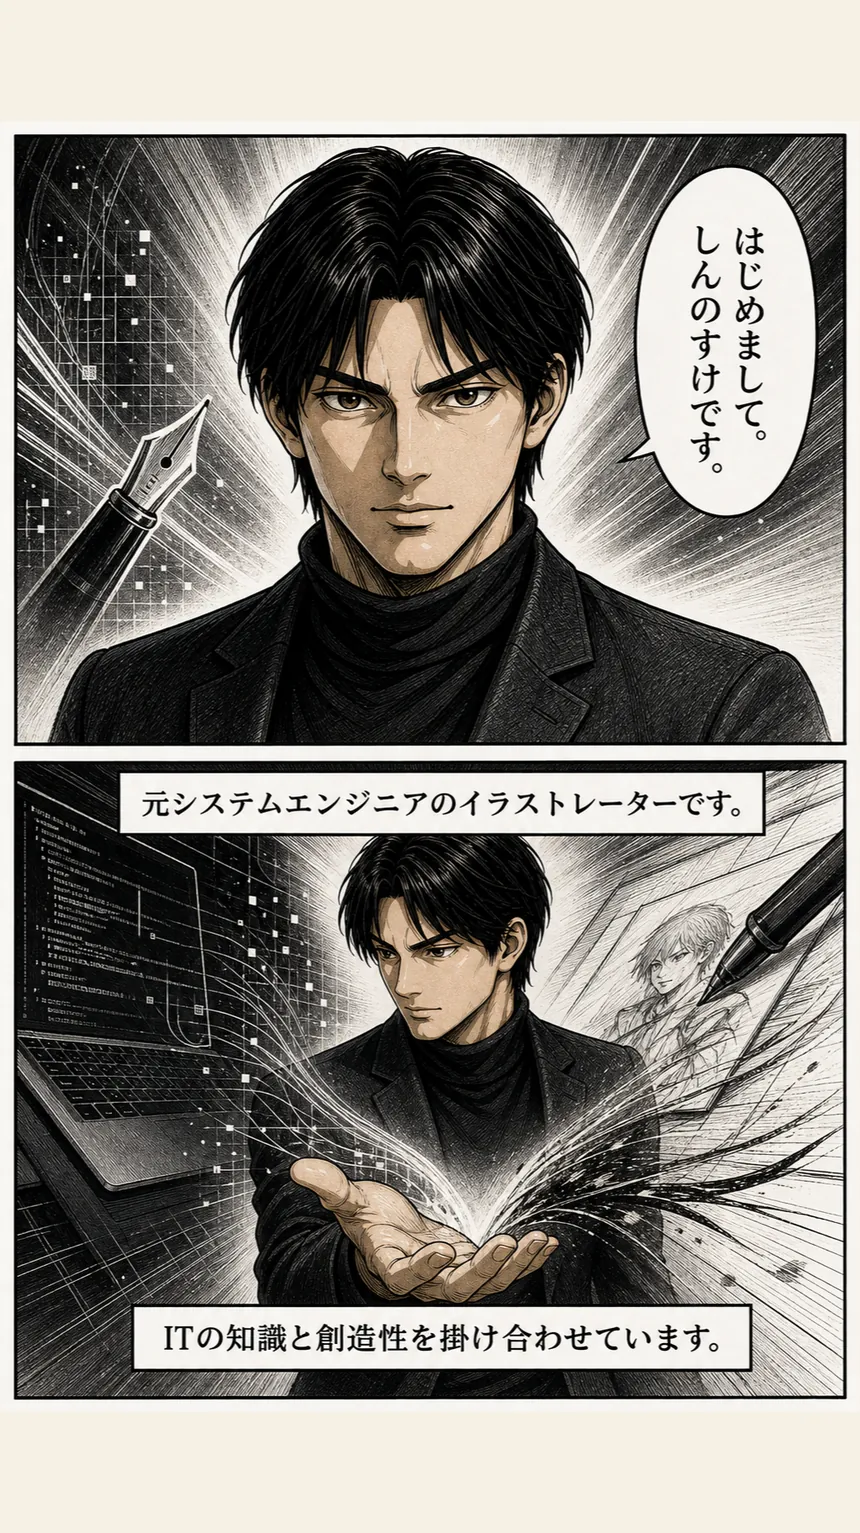
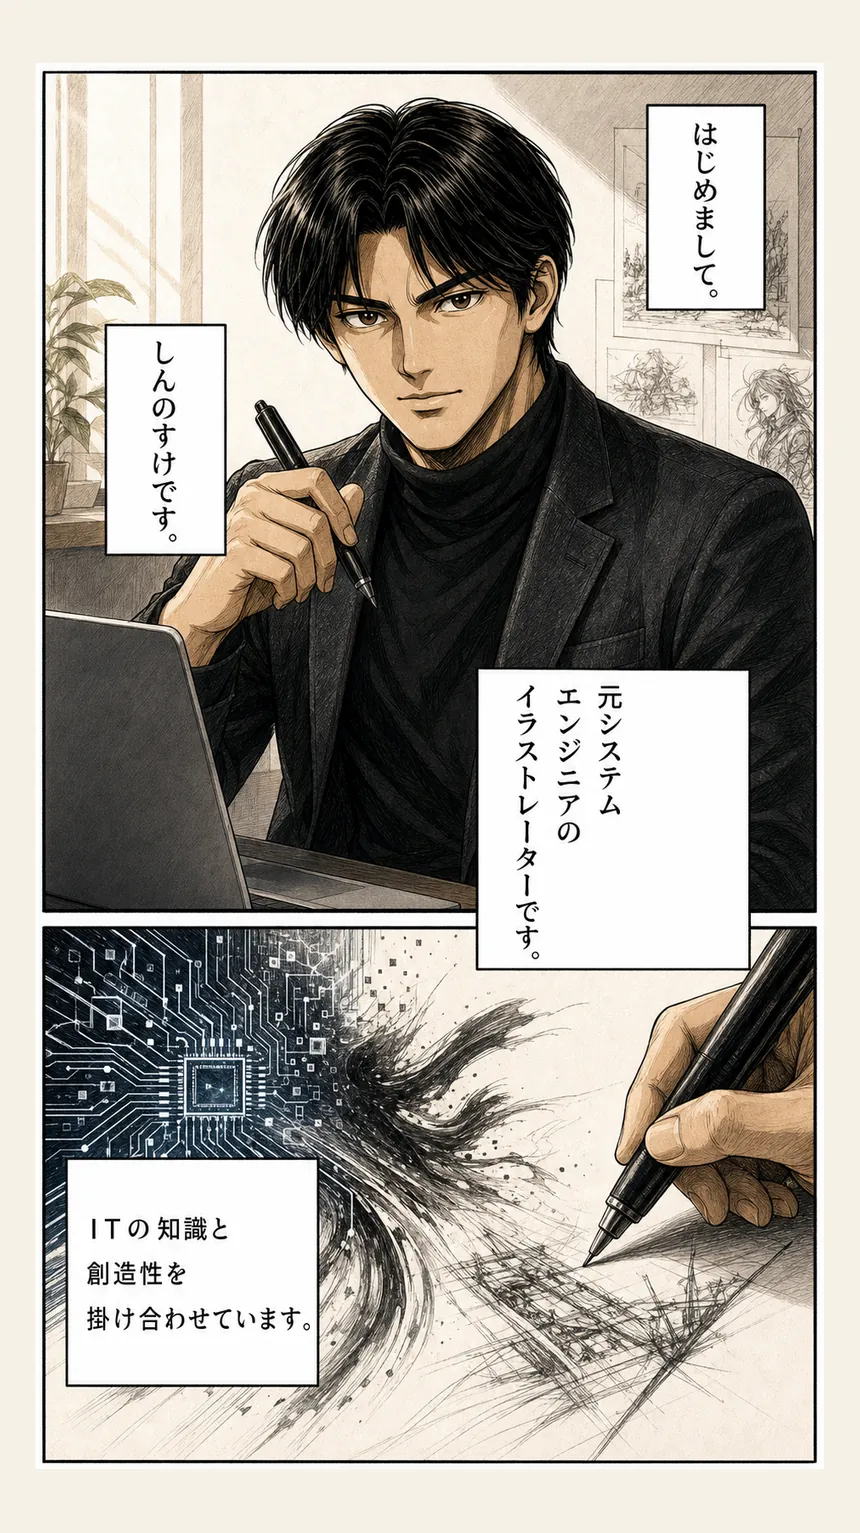
独立ストーリー漫画をv2に差し替え
- final_v2 の12ページをWebP化して置き換え（計2.06MB）
- v2の内容に合わせて各ページの説明文・代替テキストを更新
- 画像パスに ?v=2 を付けて、既に読んだ人にも新しい絵が表示されるように

diff --git a/index.html b/index.html
@@ -13,7 +13,7 @@
 <link rel="preconnect" href="https://fonts.gstatic.com" crossorigin>
 <link href="https://fonts.googleapis.com/css2?family=Shippori+Mincho+B1:wght@500;600;700;800&family=Zen+Kaku+Gothic+New:wght@400;500;700;900&family=Cormorant+Garamond:ital,wght@0,400;0,600;1,400;1,600&display=swap" rel="stylesheet">
 <link rel="icon" href="images/logo.png" type="image/png">
-<link rel="stylesheet" href="css/style.css?v=202608210048">
+<link rel="stylesheet" href="css/style.css?v=202608210159">
 </head>
 <body>
 
@@ -213,52 +213,52 @@
       </div>
 
       <div class="manga__track" id="mangaTrack" tabindex="0" aria-label="独立ストーリー漫画 全12ページ">
-          <article class="manga__page" data-cursor="ZOOM" data-lightbox="images/manga/p01.webp" data-caption="独立ストーリー 1 / 12　ただものじゃないイラストレーター、しんのすけ" aria-label="1 / 12">
-            <img src="images/manga/p01.webp" alt="独立ストーリー漫画 1ページ目 ただものじゃないイラストレーター、しんのすけ" width="860" height="1533" decoding="async" fetchpriority="high">
+          <article class="manga__page" data-cursor="ZOOM" data-lightbox="images/manga/p01.webp?v=2" data-caption="独立ストーリー 1 / 12　はじめまして、元システムエンジニアのイラストレーター" aria-label="1 / 12">
+            <img src="images/manga/p01.webp?v=2" alt="独立ストーリー漫画 1ページ目 はじめまして、元システムエンジニアのイラストレーター" width="860" height="1533" decoding="async" fetchpriority="high">
             <span class="manga__page-no">01</span>
           </article>
-          <article class="manga__page" data-cursor="ZOOM" data-lightbox="images/manga/p02.webp" data-caption="独立ストーリー 2 / 12　広いサービスと使命" aria-label="2 / 12">
-            <img src="images/manga/p02.webp" alt="独立ストーリー漫画 2ページ目 広いサービスと使命" width="860" height="1533" decoding="async">
+          <article class="manga__page" data-cursor="ZOOM" data-lightbox="images/manga/p02.webp?v=2" data-caption="独立ストーリー 2 / 12　サービスの幅と、その根っこにあるもの" aria-label="2 / 12">
+            <img src="images/manga/p02.webp?v=2" alt="独立ストーリー漫画 2ページ目 サービスの幅と、その根っこにあるもの" width="860" height="1533" decoding="async">
             <span class="manga__page-no">02</span>
           </article>
-          <article class="manga__page" data-cursor="ZOOM" data-lightbox="images/manga/p03.webp" data-caption="独立ストーリー 3 / 12　終電に乗れないSE時代" aria-label="3 / 12">
-            <img src="images/manga/p03.webp" alt="独立ストーリー漫画 3ページ目 終電に乗れないSE時代" width="860" height="1533" decoding="async" loading="lazy">
+          <article class="manga__page" data-cursor="ZOOM" data-lightbox="images/manga/p03.webp?v=2" data-caption="独立ストーリー 3 / 12　漆黒だった会社員時代" aria-label="3 / 12">
+            <img src="images/manga/p03.webp?v=2" alt="独立ストーリー漫画 3ページ目 漆黒だった会社員時代" width="860" height="1533" decoding="async" loading="lazy">
             <span class="manga__page-no">03</span>
           </article>
-          <article class="manga__page" data-cursor="ZOOM" data-lightbox="images/manga/p04.webp" data-caption="独立ストーリー 4 / 12　あの笑い方が怖かった夜" aria-label="4 / 12">
-            <img src="images/manga/p04.webp" alt="独立ストーリー漫画 4ページ目 あの笑い方が怖かった夜" width="860" height="1533" decoding="async" loading="lazy">
+          <article class="manga__page" data-cursor="ZOOM" data-lightbox="images/manga/p04.webp?v=2" data-caption="独立ストーリー 4 / 12　このままでいいのか、と立ち止まった夜" aria-label="4 / 12">
+            <img src="images/manga/p04.webp?v=2" alt="独立ストーリー漫画 4ページ目 このままでいいのか、と立ち止まった夜" width="860" height="1533" decoding="async" loading="lazy">
             <span class="manga__page-no">04</span>
           </article>
-          <article class="manga__page" data-cursor="ZOOM" data-lightbox="images/manga/p05.webp" data-caption="独立ストーリー 5 / 12　深夜の独立勉強" aria-label="5 / 12">
-            <img src="images/manga/p05.webp" alt="独立ストーリー漫画 5ページ目 深夜の独立勉強" width="860" height="1533" decoding="async" loading="lazy">
+          <article class="manga__page" data-cursor="ZOOM" data-lightbox="images/manga/p05.webp?v=2" data-caption="独立ストーリー 5 / 12　深夜の学び直しと、独立への決意" aria-label="5 / 12">
+            <img src="images/manga/p05.webp?v=2" alt="独立ストーリー漫画 5ページ目 深夜の学び直しと、独立への決意" width="860" height="1533" decoding="async" loading="lazy">
             <span class="manga__page-no">05</span>
           </article>
-          <article class="manga__page" data-cursor="ZOOM" data-lightbox="images/manga/p06.webp" data-caption="独立ストーリー 6 / 12　独立と0円の現実" aria-label="6 / 12">
-            <img src="images/manga/p06.webp" alt="独立ストーリー漫画 6ページ目 独立と0円の現実" width="860" height="1533" decoding="async" loading="lazy">
+          <article class="manga__page" data-cursor="ZOOM" data-lightbox="images/manga/p06.webp?v=2" data-caption="独立ストーリー 6 / 12　独立、そして収入0円の現実" aria-label="6 / 12">
+            <img src="images/manga/p06.webp?v=2" alt="独立ストーリー漫画 6ページ目 独立、そして収入0円の現実" width="860" height="1533" decoding="async" loading="lazy">
             <span class="manga__page-no">06</span>
           </article>
-          <article class="manga__page" data-cursor="ZOOM" data-lightbox="images/manga/p07.webp" data-caption="独立ストーリー 7 / 12　マーケティング、デザイン、AIへの深化" aria-label="7 / 12">
-            <img src="images/manga/p07.webp" alt="独立ストーリー漫画 7ページ目 マーケティング、デザイン、AIへの深化" width="860" height="1533" decoding="async" loading="lazy">
+          <article class="manga__page" data-cursor="ZOOM" data-lightbox="images/manga/p07.webp?v=2" data-caption="独立ストーリー 7 / 12　マーケティング・デザイン・AIを学び直す" aria-label="7 / 12">
+            <img src="images/manga/p07.webp?v=2" alt="独立ストーリー漫画 7ページ目 マーケティング・デザイン・AIを学び直す" width="860" height="1533" decoding="async" loading="lazy">
             <span class="manga__page-no">07</span>
           </article>
-          <article class="manga__page" data-cursor="ZOOM" data-lightbox="images/manga/p08.webp" data-caption="独立ストーリー 8 / 12　才能が輝くサービスの場面" aria-label="8 / 12">
-            <img src="images/manga/p08.webp" alt="独立ストーリー漫画 8ページ目 才能が輝くサービスの場面" width="860" height="1533" decoding="async" loading="lazy">
+          <article class="manga__page" data-cursor="ZOOM" data-lightbox="images/manga/p08.webp?v=2" data-caption="独立ストーリー 8 / 12　学んだことを、仕事にしていく日々" aria-label="8 / 12">
+            <img src="images/manga/p08.webp?v=2" alt="独立ストーリー漫画 8ページ目 学んだことを、仕事にしていく日々" width="860" height="1533" decoding="async" loading="lazy">
             <span class="manga__page-no">08</span>
           </article>
-          <article class="manga__page" data-cursor="ZOOM" data-lightbox="images/manga/p09.webp" data-caption="独立ストーリー 9 / 12　認知されるようになった今" aria-label="9 / 12">
-            <img src="images/manga/p09.webp" alt="独立ストーリー漫画 9ページ目 認知されるようになった今" width="860" height="1533" decoding="async" loading="lazy">
+          <article class="manga__page" data-cursor="ZOOM" data-lightbox="images/manga/p09.webp?v=2" data-caption="独立ストーリー 9 / 12　評判が広がり、知られるようになった" aria-label="9 / 12">
+            <img src="images/manga/p09.webp?v=2" alt="独立ストーリー漫画 9ページ目 評判が広がり、知られるようになった" width="860" height="1533" decoding="async" loading="lazy">
             <span class="manga__page-no">09</span>
           </article>
-          <article class="manga__page" data-cursor="ZOOM" data-lightbox="images/manga/p10.webp" data-caption="独立ストーリー 10 / 12　グラフィックアーティストへの夢" aria-label="10 / 12">
-            <img src="images/manga/p10.webp" alt="独立ストーリー漫画 10ページ目 グラフィックアーティストへの夢" width="860" height="1533" decoding="async" loading="lazy">
+          <article class="manga__page" data-cursor="ZOOM" data-lightbox="images/manga/p10.webp?v=2" data-caption="独立ストーリー 10 / 12　人の才能を輝かせることが、僕の魂の仕事" aria-label="10 / 12">
+            <img src="images/manga/p10.webp?v=2" alt="独立ストーリー漫画 10ページ目 人の才能を輝かせることが、僕の魂の仕事" width="860" height="1533" decoding="async" loading="lazy">
             <span class="manga__page-no">10</span>
           </article>
-          <article class="manga__page" data-cursor="ZOOM" data-lightbox="images/manga/p11.webp" data-caption="独立ストーリー 11 / 12　読者の才能へ視点を移す" aria-label="11 / 12">
-            <img src="images/manga/p11.webp" alt="独立ストーリー漫画 11ページ目 読者の才能へ視点を移す" width="860" height="1533" decoding="async" loading="lazy">
+          <article class="manga__page" data-cursor="ZOOM" data-lightbox="images/manga/p11.webp?v=2" data-caption="独立ストーリー 11 / 12　魂を揺さぶるグラフィックアーティストへ" aria-label="11 / 12">
+            <img src="images/manga/p11.webp?v=2" alt="独立ストーリー漫画 11ページ目 魂を揺さぶるグラフィックアーティストへ" width="860" height="1533" decoding="async" loading="lazy">
             <span class="manga__page-no">11</span>
           </article>
-          <article class="manga__page" data-cursor="ZOOM" data-lightbox="images/manga/p12.webp" data-caption="独立ストーリー 12 / 12　無料相談への案内" aria-label="12 / 12">
-            <img src="images/manga/p12.webp" alt="独立ストーリー漫画 12ページ目 無料相談への案内" width="860" height="1533" decoding="async" loading="lazy">
+          <article class="manga__page" data-cursor="ZOOM" data-lightbox="images/manga/p12.webp?v=2" data-caption="独立ストーリー 12 / 12　次は、あなたの番です" aria-label="12 / 12">
+            <img src="images/manga/p12.webp?v=2" alt="独立ストーリー漫画 12ページ目 次は、あなたの番です" width="860" height="1533" decoding="async" loading="lazy">
             <span class="manga__page-no">12</span>
           </article>
       </div>
@@ -782,6 +782,6 @@
   <svg viewBox="0 0 24 24"><path d="M12 19V5M6 11l6-6 6 6"/></svg>
 </a>
 
-<script src="js/main.js?v=202608210048"></script>
+<script src="js/main.js?v=202608210159"></script>
 </body>
 </html>
